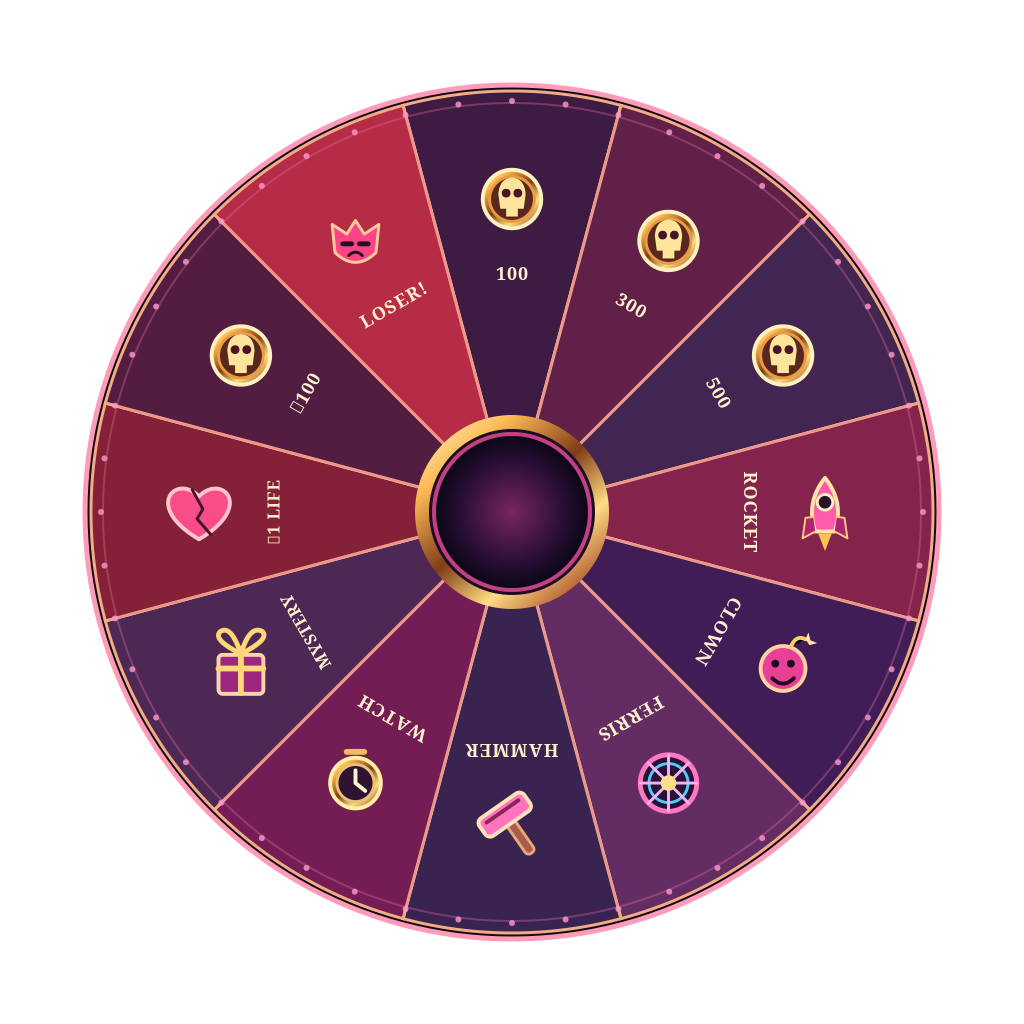
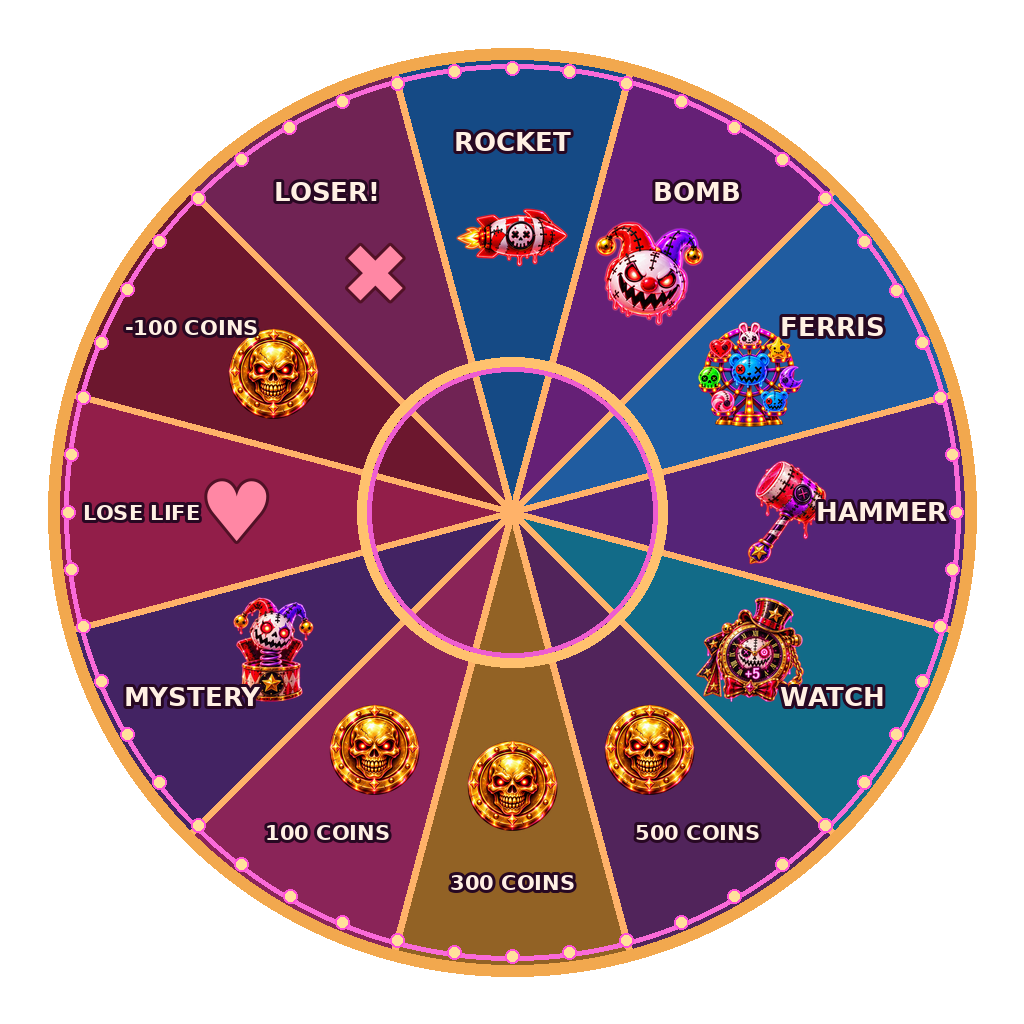
Add files via upload

diff --git a/assets/gb-events.js b/assets/gb-events.js
@@ -53,8 +53,9 @@ function evDailyReadyCount(){evRefresh();return evMissions.reduce((n,_,i)=>{cons
 function evUpdateRewardDots(){
  const ready=evDailyReadyCount()>0;
  // All claimable event rewards funnel through this indicator predicate. Never flag completed claims.
- const flags={daily:ready};const any=Object.values(flags).some(Boolean);
+ const wheelReady=evData.spins===0;const flags={daily:ready,wheel:wheelReady};const any=Object.values(flags).some(Boolean);
  document.querySelectorAll('[data-ev="daily"]').forEach(card=>{card.classList.toggle('ev-has-reward',ready);card.setAttribute('aria-label','Daily Quests'+(ready?' — rewards ready':''))});
+ document.querySelectorAll('[data-ev="wheel"]').forEach(card=>{card.classList.toggle('ev-has-reward',wheelReady);card.setAttribute('aria-label','Wheel of Misfortune'+(wheelReady?' — free spin available':''))});
  const button=document.getElementById('events');if(button){button.classList.toggle('ev-tab-has-reward',any);button.setAttribute('aria-label','Events'+(any?' — rewards ready':''));}
 }
 const evRewardIcon={coins:'assets/coin-skull-new.png',RV:'assets/rocket-h.png',CB:'assets/clownbomb.png',FW:'assets/ferris.png',hammer:'assets/booster-hammer.webp',cards:'assets/booster-cards.webp',musicbox:'assets/booster-musicbox.webp',watch:'assets/booster-watch.webp'};
@@ -75,10 +76,10 @@ function evDaily(){
  evDisplay(`${evHeader('DAILY MISSIONS')}<section class="ev-daily-panel"><h2>TEN TICKETS TO TROUBLE</h2><p class="ev-daily-counter">${claimedCount} / 10 CLAIMED · RESETS DAILY</p><div class="ev-daily-list">${items}</div></section>`);
  evRoot.querySelectorAll('[data-claim]').forEach(b=>b.onclick=()=>{const i=+b.dataset.claim,q=evMission(i);if(evData.claims.includes(i)||(evData.missions[q.key]||0)<q.target)return;evData.claims.push(i);evAward(evMissions[i][4]);evSave();evUpdateRewardDots();playSfx('victory');evDaily()});evUpdateRewardDots();
 }
-const evWheelPrizes=[{label:'100 COINS',reward:{coins:100}},{label:'300 COINS',reward:{coins:300}},{label:'500 COINS',reward:{coins:500}},{label:'ROCKET',reward:{RV:1}},{label:'CLOWNBOMB',reward:{CB:1}},{label:'FERRIS WHEEL',reward:{FW:1}},{label:'HAMMER',reward:{hammer:1}},{label:'WATCH',reward:{watch:1}},{label:'MYSTERY BOOSTER',reward:null},{label:'LOSE 1 LIFE',negative:'life'},{label:'−100 COINS',negative:'coins'},{label:'LOSER!',negative:'loser'}];
+const evWheelPrizes=[{label:'ROCKET',reward:{RV:1}},{label:'CLOWNBOMB',reward:{CB:1}},{label:'FERRIS WHEEL',reward:{FW:1}},{label:'HAMMER',reward:{hammer:1}},{label:'WATCH',reward:{watch:1}},{label:'500 COINS',reward:{coins:500}},{label:'300 COINS',reward:{coins:300}},{label:'100 COINS',reward:{coins:100}},{label:'MYSTERY BOOSTER',reward:null},{label:'LOSE 1 LIFE',negative:'life'},{label:'−100 COINS',negative:'coins'},{label:'LOSER!',negative:'loser'}];
 let evWheelAngle=0,evSpinning=false;
 function evWheelCost(){return evData.spins===0?0:Math.min(1000,evData.spins*200)}
-function evWheel(){evRefresh();const base='assets/events/';const layer=(name,cls)=>`<img class="${cls}" src="${base}${name}.png" alt="">`;evDisplay(`${evHeader('WHEEL OF MISFORTUNE')}<div class="ev-panel"><div class="ev-dim">Skull Coins: <b id="evWheelCoins">${save.coins}</b> · Spins today: <b id="evSpinCount">${evData.spins}</b></div><div class="ev-wheel-wrap">${layer('02_rotating_disc','ev-disc')}${layer('01_stationary_frame','ev-rim')}${layer('04_center_medallion','ev-center')}${layer('03_fixed_pointer','ev-pointer')}</div><div class="ev-btn-row"><button class="ev-btn" id="evSpinBtn">${evWheelCost()===0?'FREE SPIN':'SPIN · '+evWheelCost()+' COINS'}</button></div><div id="evWheelResult" class="ev-gift"></div><p class="ev-dim">First spin free. Then 200, 400, 600, 800, and 1,000 coins per spin (1,000 maximum). Three unlucky outcomes included.</p></div>`);const disc=evRoot.querySelector('.ev-disc');disc.style.transform=`rotate(${evWheelAngle}deg)`;evRoot.querySelector('#evSpinBtn').onclick=async()=>{if(evSpinning)return;const cost=evWheelCost();if(save.coins<cost){evRoot.querySelector('#evWheelResult').textContent='Not enough Skull Coins!';return}if(cost&&!confirm(`Spin for ${cost} Skull Coins?`))return;save.coins-=cost;evData.spins++;evSave();persist();evSpinning=true;const btn=evRoot.querySelector('#evSpinBtn');btn.disabled=true;const idx=Math.floor(Math.random()*evWheelPrizes.length),prize=evWheelPrizes[idx];const angleEnd=(360-idx*30)%360;evWheelAngle+=1800+((angleEnd-(evWheelAngle%360)+360)%360);disc.style.transform=`rotate(${evWheelAngle}deg)`;playSfx('wheel');await new Promise(r=>setTimeout(r,4050));if(prize.negative==='life'){regenLives();if(save.lives>0){if(save.lives===5)save.lifeTick=Date.now();save.lives--;persist()}}else if(prize.negative==='coins'){save.coins=Math.max(0,save.coins-100);persist()}else if(!prize.negative){const reward=prize.reward||{[BOOSTERS[Math.floor(Math.random()*BOOSTERS.length)].id]:1};evAward(reward)}const notice=prize.negative==='loser'?'LOSER! Better luck next spin.':prize.label;evSpinning=false;evRoot.querySelector('#evWheelResult').textContent=notice;evRoot.querySelector('#evWheelCoins').textContent=save.coins;evRoot.querySelector('#evSpinCount').textContent=evData.spins;btn.textContent='SPIN · '+evWheelCost()+' COINS';btn.disabled=false;playSfx(prize.negative?'fail':'victory')};}
+function evWheel(){evRefresh();const base='assets/events/';const layer=(name,cls)=>`<img class="${cls}" src="${base}${name}.png" alt="">`;evDisplay(`${evHeader('WHEEL OF MISFORTUNE')}<div class="ev-panel ev-wheel-panel"><div class="ev-wheel-wallet">Skull Coins: <b id="evWheelCoins">${save.coins}</b> · Spins today: <b id="evSpinCount">${evData.spins}</b></div><div class="ev-wheel-wrap ev-wheel-glow">${layer('02_rotating_disc','ev-disc')}${layer('01_stationary_frame','ev-rim')}${layer('04_center_medallion','ev-center')}${layer('03_fixed_pointer','ev-pointer')}</div><div class="ev-btn-row"><button class="ev-btn ev-wheel-spin-btn" id="evSpinBtn">${evWheelCost()===0?'FREE SPIN':'SPIN · '+evWheelCost()+' COINS'}</button></div><div id="evWheelResult" class="ev-gift"></div></div>`);const disc=evRoot.querySelector('.ev-disc');disc.style.transform=`rotate(${evWheelAngle}deg)`;evRoot.querySelector('#evSpinBtn').onclick=async()=>{if(evSpinning)return;const cost=evWheelCost();if(save.coins<cost){evRoot.querySelector('#evWheelResult').textContent='Not enough Skull Coins!';return}if(cost&&!confirm(`Spin for ${cost} Skull Coins?`))return;save.coins-=cost;evData.spins++;evSave();persist();evUpdateRewardDots();evSpinning=true;const btn=evRoot.querySelector('#evSpinBtn');btn.disabled=true;const idx=Math.floor(Math.random()*evWheelPrizes.length),prize=evWheelPrizes[idx];const angleEnd=(360-idx*30)%360;evWheelAngle+=1800+((angleEnd-(evWheelAngle%360)+360)%360);disc.style.transform=`rotate(${evWheelAngle}deg)`;playSfx('wheel');await new Promise(r=>setTimeout(r,4050));if(prize.negative==='life'){regenLives();if(save.lives>0){if(save.lives===5)save.lifeTick=Date.now();save.lives--;persist()}}else if(prize.negative==='coins'){save.coins=Math.max(0,save.coins-100);persist()}else if(!prize.negative){const reward=prize.reward||{[BOOSTERS[Math.floor(Math.random()*BOOSTERS.length)].id]:1};evAward(reward)}const notice=prize.negative==='loser'?'LOSER! Better luck next spin.':prize.label;evSpinning=false;evRoot.querySelector('#evWheelResult').textContent=notice;evRoot.querySelector('#evWheelCoins').textContent=save.coins;evRoot.querySelector('#evSpinCount').textContent=evData.spins;btn.textContent='SPIN · '+evWheelCost()+' COINS';btn.disabled=false;playSfx(prize.negative?'fail':'victory')};}
 function evGhost(){
   evRefresh();
   const own=Object.values(save.best||{}).reduce((sum,v)=>sum+Math.min(3,Math.max(0,Number(v)||0)),0);

diff --git a/assets/gb-events.css b/assets/gb-events.css
@@ -172,3 +172,13 @@
 .ev-weekly-result-secondary{background:linear-gradient(#7647b6,#361755);box-shadow:0 0 12px #a666f888,inset 0 1px 7px #b785fc77}
 .ev-weekly-result-actions button:disabled{opacity:.46;filter:grayscale(.6);cursor:default}
 @media(prefers-reduced-motion:reduce){.ev-weekly-result-spark{animation:none}}
+
+/* Wheel of Misfortune: independent rotating disc, fixed neon rim/pointer/medallion */
+.ev-wheel-panel{border:2px solid #fa72de;box-shadow:0 0 14px #f248cd8c,0 0 34px #7b3af74d,inset 0 0 22px #7136ad38;background:radial-gradient(circle at 50% 29%,#54225a,#210b2c 65%,#16091f)}
+.ev-wheel-wallet{display:flex;justify-content:center;gap:5px;color:#ffe0b3;font-weight:750;font-size:12px;letter-spacing:.2px}
+.ev-wheel-glow{width:min(100%,390px);filter:drop-shadow(0 0 9px #f34edcaa) drop-shadow(0 0 14px #603df677)}
+.ev-wheel-glow img{user-select:none;-webkit-user-drag:none}
+.ev-wheel-glow .ev-rim,.ev-wheel-glow .ev-pointer,.ev-wheel-glow .ev-center{transform:none!important}
+.ev-wheel-spin-btn{border:2px solid #ffb3e8;border-radius:999px;min-height:52px;background:linear-gradient(#e947b7,#97217c 55%,#50155d);box-shadow:0 0 17px #fd53d9a6,0 0 28px #8a5af366,inset 0 2px 6px #ffe6f8a9;font:900 17px Georgia,serif;letter-spacing:1px;text-shadow:0 0 7px #ffc4ec}
+.ev-wheel-spin-btn:active{filter:brightness(1.15);transform:scale(.985)}
+.ev-wheel-spin-btn:disabled{opacity:.65}
